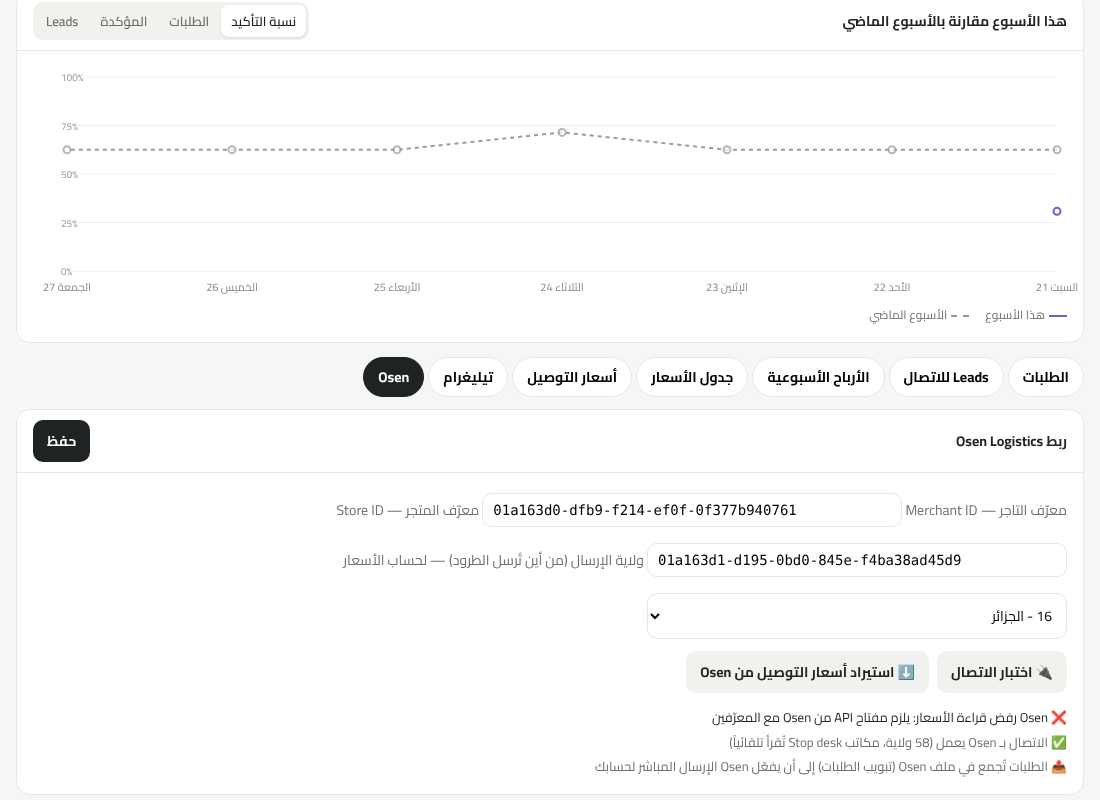
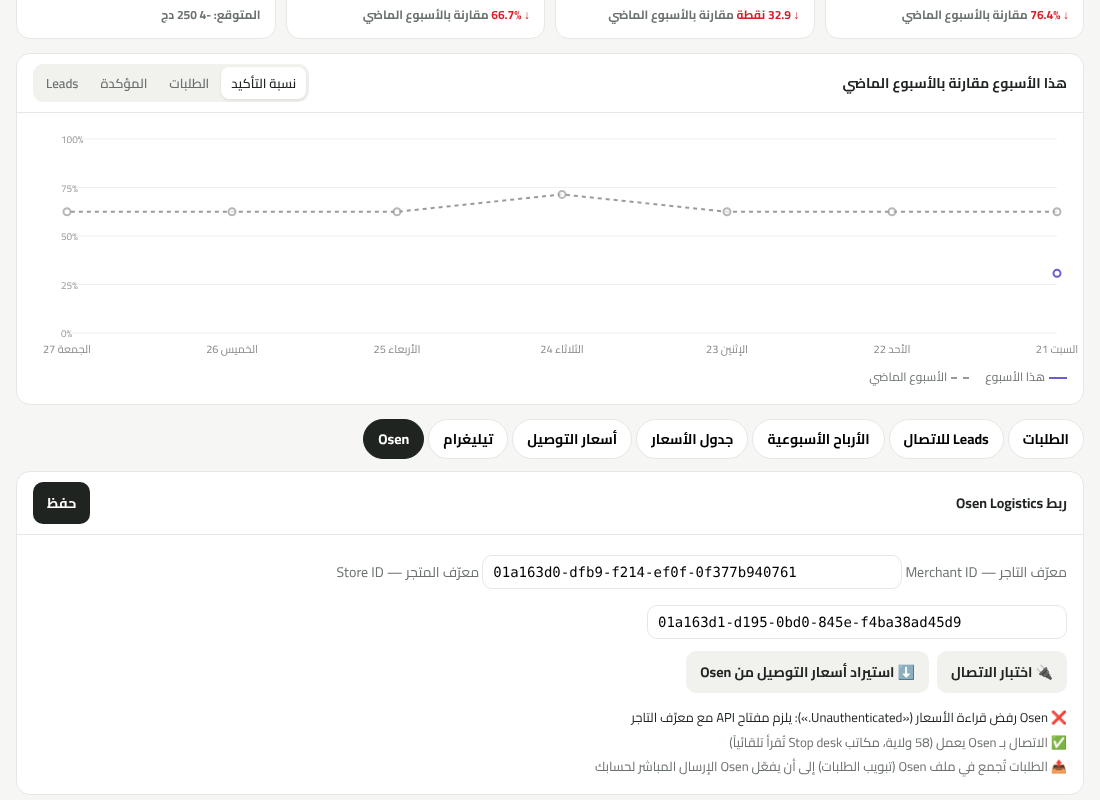
Osen: use the official EcoManager v2 / v1 contract
- Create parcels with POST /v2/ecomanager/orders (JSON array,
  per-row success + tracking), headers X-Api-Id + X-Api-Token
- Connection test uses POST /v2/ecomanager/auth/validate and checks
  the store id matches
- Price import reads /api/v1/get/fees (home + stop desk per wilaya,
  "0" = unavailable) and the average return fee

Claude-Session: https://claude.ai/code/session_016Kzuo5UbFowXNdm1AeAkua

diff --git a/lib/osen.js b/lib/osen.js
@@ -25,9 +25,10 @@ async function saveIds(b) {
   return getIds();
 }
 async function authHeaders() {
+  // Official EcoManager v2 auth: X-Api-Id = merchant ID, token in X-Api-Token (also accepted as Bearer by v1).
   const ids = await getIds();
-  const h = { 'x-api-id': ids.merchant_id, 'x-store-id': ids.store_id };
-  if (apiKey()) h.authorization = 'Bearer ' + apiKey();
+  const h = { 'x-api-id': ids.merchant_id };
+  if (apiKey()) { h['x-api-token'] = apiKey(); h.authorization = 'Bearer ' + apiKey(); }
   return h;
 }
 const PRODUCT = 'بذور طماطم قلب الثور 2غ + هدية بذور البطيخ';
@@ -86,46 +87,40 @@ async function deskMap(COMMUNES) {
   return out;
 }
 
-// ---- Create the parcel in Osen ----
+// ---- Create the parcel in Osen (official v2: POST /v2/ecomanager/orders with a JSON array) ----
+async function osenFetch(path, opts = {}) {
+  const ctl = new AbortController();
+  const t = setTimeout(() => ctl.abort(), opts.timeout || 9000);
+  try {
+    const r = await fetch(BASE + path, { ...opts, redirect: 'error', signal: ctl.signal, headers: { accept: 'application/json', 'content-type': 'application/json', ...(await authHeaders()), ...(opts.headers || {}) } });
+    const j = await r.json().catch(() => ({}));
+    return { r, j };
+  } finally { clearTimeout(t); }
+}
+const errText = (j, r) => (Array.isArray(j.message) ? j.message.join(', ') : j.message || j.error || 'HTTP ' + r.status);
+
 async function createParcel(o) {
   const m = await municipality(o.wilaya_code, o.commune);
   if (!m) throw new Error(`البلدية غير موجودة في Osen: ${o.commune}`);
   if (o.delivery_type === 'desk' && !m.desk) throw new Error('لا يوجد مكتب Osen لهذه البلدية');
-  const phone = String(o.phone || '').replace(/\D/g, '');
-  const body = {
-    target: {
-      fullName: o.name,
-      phoneNumberPrimary: phone.startsWith('0') ? '213' + phone.slice(1) : phone,
-      address: o.reference || o.commune,
-      municipality: { id: m.id },
-    },
-    parcel: {
-      description: PRODUCT + (o.qty > 1 ? ` × ${o.qty}` : ''),
-      weight: 1, volume: 0.01, fragile: false, openable: false, tryable: false,
-      refrenceId: 'CMD-' + o.id,
-      note: o.note || undefined,
-      amount: Number(o.unit_price) * Number(o.qty),
-    },
-    operation: { deliveryType: o.delivery_type === 'desk' ? 'STOPDESK' : 'DELIVERY' },
-    cashCollection: { totalPostTarget: Number(o.total) },
-  };
-  const ctl = new AbortController();
-  const t = setTimeout(() => ctl.abort(), 9000);
-  let r, j;
-  try {
-    r = await fetch(BASE + '/v1/orders', {
-      method: 'POST', signal: ctl.signal,
-      headers: { 'content-type': 'application/json', accept: 'application/json', ...(await authHeaders()) },
-      body: JSON.stringify(body),
-    });
-    j = await r.json().catch(() => ({}));
-  } finally { clearTimeout(t); }
-  if (!r.ok) {
-    const msg = Array.isArray(j.message) ? j.message.join(', ') : (j.message || 'HTTP ' + r.status);
-    throw new Error(r.status === 401 ? 'مفتاح Osen غير صحيح (OSEN_API_KEY)' : 'Osen: ' + msg);
-  }
-  const d = j.data || j;
-  return { id: d.id, tracking: d.trackingId || d.tracking_id || d.id };
+  const body = [{
+    order_id: 'CMD-' + o.id,
+    recipient_name: o.name,
+    recipient_phone: String(o.phone || '').replace(/\D/g, ''),
+    address: o.reference || o.commune,
+    wilaya_id: String(Number(o.wilaya_code)),
+    commune_id: String(m.id),
+    is_stopdesk: o.delivery_type === 'desk',
+    cod_amount: Number(o.total),
+    weight_kg: 0.2,
+    note: o.note || null,
+  }];
+  const { r, j } = await osenFetch('/v2/ecomanager/orders', { method: 'POST', body: JSON.stringify(body), timeout: 15000 });
+  if (r.status === 401) throw new Error('Osen: ' + errText(j, r) + ' — يلزم مفتاح API (OSEN_API_KEY)');
+  if (!r.ok) throw new Error('Osen: ' + errText(j, r));
+  const row = Array.isArray(j) ? j[0] : null;
+  if (!row || !row.success || !row.tracking) throw new Error('Osen: ' + ((row && (row.error_message || row.error_code)) || 'لم يتم قبول الطلب'));
+  return { tracking: row.tracking };
 }
 
 // Full connection test, step by step (admin → Osen → اختبار الاتصال)
@@ -140,38 +135,33 @@ async function testConnection() {
     const d = Object.values(g).reduce((a, w) => a + Object.values(w).filter((m) => m.desk).length, 0);
     steps.push({ name: 'خادم Osen (الولايات والبلديات)', ok: true, detail: `${Object.keys(g).length} ولاية · ${n} بلدية · ${d} بلدية فيها توصيل للمكتب` });
   } catch (e) { steps.push({ name: 'خادم Osen', ok: false, detail: e.message }); }
+  // Official identity check: POST /v2/ecomanager/auth/validate {api_id, api_token}
   try {
-    const r = await fetch(BASE + '/v1/pricing-merchant-query-handler/?pagination%5Bskip%5D=0&pagination%5Btake%5D=1', { headers: await authHeaders() });
-    const j = await r.json().catch(() => ({}));
-    if (r.ok) steps.push({ name: 'حساب التاجر (الأسعار وإرسال الطلبات)', ok: true, detail: `${(j.metaData && j.metaData.count) || 0} سعر في حسابك` });
-    else steps.push({ name: 'حساب التاجر (الأسعار وإرسال الطلبات)', ok: false, detail: `Osen رفض الطلب (${r.status}: ${Array.isArray(j.message) ? j.message.join(', ') : j.message || ''}). Osen يطلب مفتاح API مع المعرّفين لقراءة الأسعار وإنشاء الطرود.` });
+    const { r, j } = await osenFetch('/v2/ecomanager/auth/validate', { method: 'POST', body: JSON.stringify({ api_id: ids.merchant_id, api_token: apiKey() }) });
+    if (r.ok && j.valid === true) {
+      const storeOk = !j.store || String(j.store.id) === String(ids.store_id);
+      steps.push({ name: 'حساب التاجر (الأسعار وإرسال الطلبات)', ok: storeOk, detail: storeOk ? `مفعّل (${j.scope || ''})` : `المفتاح يخص متجراً آخر (${j.store && j.store.id})` });
+    } else {
+      steps.push({ name: 'حساب التاجر (الأسعار وإرسال الطلبات)', ok: false, detail: `جواب Osen: « ${errText(j, r)} ». Osen يقبل الأسعار وإنشاء الطرود فقط بمعرّف التاجر + مفتاح API (token).` });
+    }
   } catch (e) { steps.push({ name: 'حساب التاجر', ok: false, detail: e.message }); }
   return { ok: steps.every((s) => s.ok), steps };
 }
 
 // Download the merchant's Osen price list and turn it into the site's delivery fee table.
 async function importPricing() {
-  const ids = await getIds();
-  const rows = [];
-  for (let skip = 0; skip < 20000; skip += 200) {
-    const r = await fetch(`${BASE}/v1/pricing-merchant-query-handler/?pagination%5Bskip%5D=${skip}&pagination%5Btake%5D=200`, { headers: await authHeaders() });
-    const j = await r.json().catch(() => ({}));
-    if (!r.ok) throw new Error(r.status === 401 ? 'Osen رفض قراءة الأسعار: يلزم مفتاح API من Osen مع المعرّفين' : 'Osen: ' + (j.message || r.status));
-    rows.push(...(j.data || []));
-    if (!j.data || j.data.length < 200 || rows.length >= ((j.metaData && j.metaData.count) || 0)) break;
-  }
-  const src = Number(ids.source);
-  const pick = (dest, type) => {
-    const m = (r) => r.deliveryType === type && (String(r.destination) === String(dest) || r.destination === 'all');
-    const best = rows.filter((r) => m(r) && Number(r.source) === src)[0] || rows.filter((r) => m(r) && r.source === 'all')[0];
-    return best ? Math.round(Number(best.deliveryPrice)) : null;
-  };
+  // Official v1 fees: livraison[] rows {wilaya_id, tarif, tarif_stopdesk}; "0" = service unavailable.
+  const { r, j } = await osenFetch('/api/v1/get/fees');
+  if (!r.ok) throw new Error(r.status === 401 ? 'Osen رفض قراءة الأسعار («' + errText(j, r) + '»): يلزم مفتاح API مع معرّف التاجر' : 'Osen: ' + errText(j, r));
+  const rows = j.livraison || [];
+  const num = (v) => { const n = Math.round(Number(v)); return n > 0 ? n : null; };
   const fees = {};
-  for (let i = 1; i <= 58; i++) {
-    const code = String(i).padStart(2, '0');
-    fees[code] = { home: pick(i, 'DOORSTEP'), desk: pick(i, 'STOPDESK'), desk_communes: [] };
+  for (const row of rows) {
+    const code = String(row.wilaya_id).padStart(2, '0');
+    fees[code] = { home: num(row.tarif), desk: num(row.tarif_stopdesk), desk_communes: [] };
   }
-  return { fees, rows: rows.length, source: ids.source };
+  const ret = (j.retours || []).map((x) => num(x.tarif)).filter(Boolean);
+  return { fees, rows: rows.length, return_fee: ret.length ? Math.round(ret.reduce((a, b) => a + b, 0) / ret.length) : null };
 }
 
 // For /api/health: is Osen reachable and is the key accepted? (read-only request)
@@ -180,9 +170,9 @@ async function check() {
   try { const g = await geo(); out.communes_ok = Object.keys(g).length; } catch (e) { out.communes_error = e.message; }
   if (out.key_set) {
     try {
-      const r = await fetch(BASE + '/v1/orders-merchant-query-handler/counts', { headers: await authHeaders() });
-      out.key_ok = r.ok;
-      if (!r.ok) out.key_status = r.status;
+      const ids = await getIds();
+      const { j } = await osenFetch('/v2/ecomanager/auth/validate', { method: 'POST', body: JSON.stringify({ api_id: ids.merchant_id, api_token: apiKey() }) });
+      out.key_ok = j.valid === true && (!j.store || String(j.store.id) === String(ids.store_id));
     } catch (e) { out.key_error = e.message; }
   }
   return out;

diff --git a/public/admin.html b/public/admin.html
@@ -189,8 +189,7 @@
         <input class="in" id="osMerchant" dir="ltr" style="width:100%;max-width:420px;margin:4px 0 12px;font-family:monospace">
         <label class="muted">معرّف المتجر — Store ID</label>
         <input class="in" id="osStore" dir="ltr" style="width:100%;max-width:420px;margin:4px 0 12px;font-family:monospace">
-        <label class="muted">ولاية الإرسال (من أين تُرسل الطرود) — لحساب الأسعار</label>
-        <select class="in" id="osSource" style="width:100%;max-width:420px;margin:4px 0 12px"></select>
+        <select id="osSource" hidden></select>
         <div class="row" style="gap:8px;margin-bottom:12px">
           <button class="btn light" onclick="osenTest()">🔌 اختبار الاتصال</button>
           <button class="btn light" onclick="osenImport()">⬇ استيراد أسعار التوصيل من Osen</button>
@@ -400,7 +399,7 @@ async function loadOsen(){const d=await api('osen_settings');if(!d.ok)return;$('
 async function osenTest(){$('#osTest').textContent='جارٍ الاختبار…';const d=await api('osen_test');if(!d.steps)return;
   $('#osTest').innerHTML=d.steps.map(s=>`${s.ok?'✅':'❌'} <b>${esc(s.name)}</b>: ${esc(s.detail)}`).join('<br>')}
 async function osenImport(){await saveOsen(true);$('#osTest').textContent='جارٍ الاستيراد…';const r=await fetch('/api/admin?action=osen_import_prices',{method:'POST',headers:{'x-admin-key':KEY,'content-type':'application/json'},body:'{}'});const d=await r.json();
-  $('#osTest').innerHTML=d.ok?`✅ تم استيراد ${d.rows} سعر — ${d.wilayas} ولاية في جدول أسعار التوصيل (الإرسال من ${d.source})`:'❌ '+esc(d.error);if(d.ok)loadFees()}
+  $('#osTest').innerHTML=d.ok?`✅ تم استيراد أسعار ${d.wilayas} ولاية إلى جدول أسعار التوصيل`+(d.return_fee?` · سعر الإرجاع ${d.return_fee} دج`:''):'❌ '+esc(d.error);if(d.ok)loadFees()}
 async function saveOsen(quiet){const d=await api('save_osen_settings',{body:{merchant_id:$('#osMerchant').value,store_id:$('#osStore').value,source:$('#osSource').value}});if(d.ok&&!quiet){toast('تم حفظ إعدادات Osen');loadOsen()}}
 
 // ---------- Telegram ----------

diff --git a/api/admin.js b/api/admin.js
@@ -209,7 +209,8 @@ module.exports = async (req, res) => {
         const r = await osen.importPricing();
         const fees = await saveDeliveryFees(r.fees);
         const n = Object.values(fees).filter((f) => f.home != null || f.desk != null).length;
-        return send(res, 200, { ok: true, wilayas: n, rows: r.rows, source: r.source });
+        if (r.return_fee) await saveSettings({ return_cost: r.return_fee }).catch(() => {});
+        return send(res, 200, { ok: true, wilayas: n, rows: r.rows, return_fee: r.return_fee });
       }
       case 'save_osen_settings':
         return send(res, 200, { ok: true, ids: await osen.saveIds(b) });
